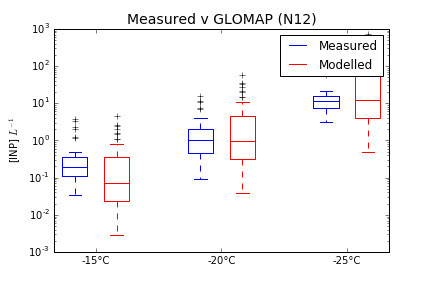
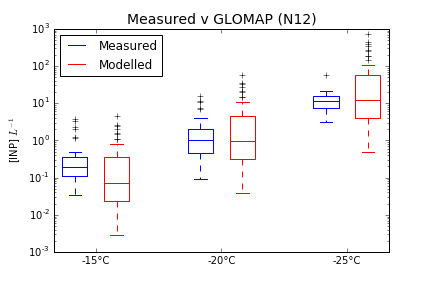
added an updated file for getting INP_T, where you can just addin temperatures at one point, rather than having to modify throughout

Changed region(s): [[0.662, 0.0938, 0.9028, 0.2812], [0.1505, 0.0938, 0.3611, 0.2812]]

diff --git a/glomap.py b/glomap.py
@@ -281,7 +281,8 @@ plt.title('Measured v GLOMAP (N12)', fontsize=14)
 # draw temporary red and blue lines and use them to create a legend
 hB, = plot([1,1],'b-')
 hR, = plot([1,1],'r-')
-legend((hB, hR),('Measured', 'Modelled'))
+legend((hB, hR),('Measured', 'Modelled'), loc = 'upper left')
+plt.legend(loc = 'upper left')
 hB.set_visible(False)
 hR.set_visible(False)
 
